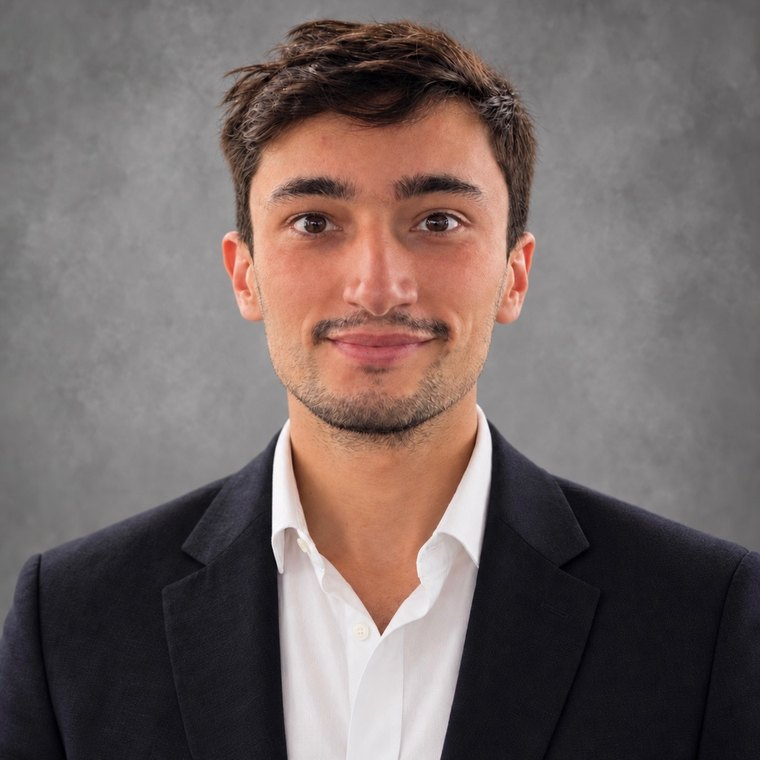
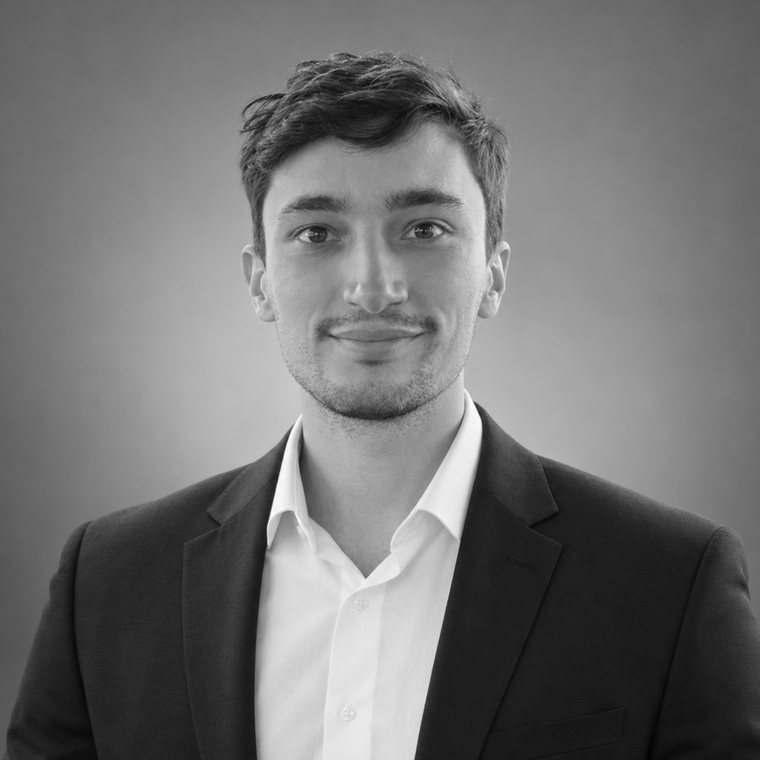
about: replace headshot with new photograph (source 1122x1122, square 1:1)

diff --git a/about.html b/about.html
@@ -89,8 +89,8 @@
       <div>
         <figure class="portrait">
           <picture>
-            <source srcset="assets/img/christopher-larsen-headshot.webp?v=20261014a" type="image/webp">
-            <img src="assets/img/christopher-larsen-headshot.jpg?v=20261014a"
+            <source srcset="assets/img/christopher-larsen-headshot.webp?v=20261014b" type="image/webp">
+            <img src="assets/img/christopher-larsen-headshot.jpg?v=20261014b"
                  alt="Christopher D. Larsen, CPA, founder of Christopher Larsen CPA, Los Angeles"
                  width="760" height="760" decoding="async">
           </picture>
